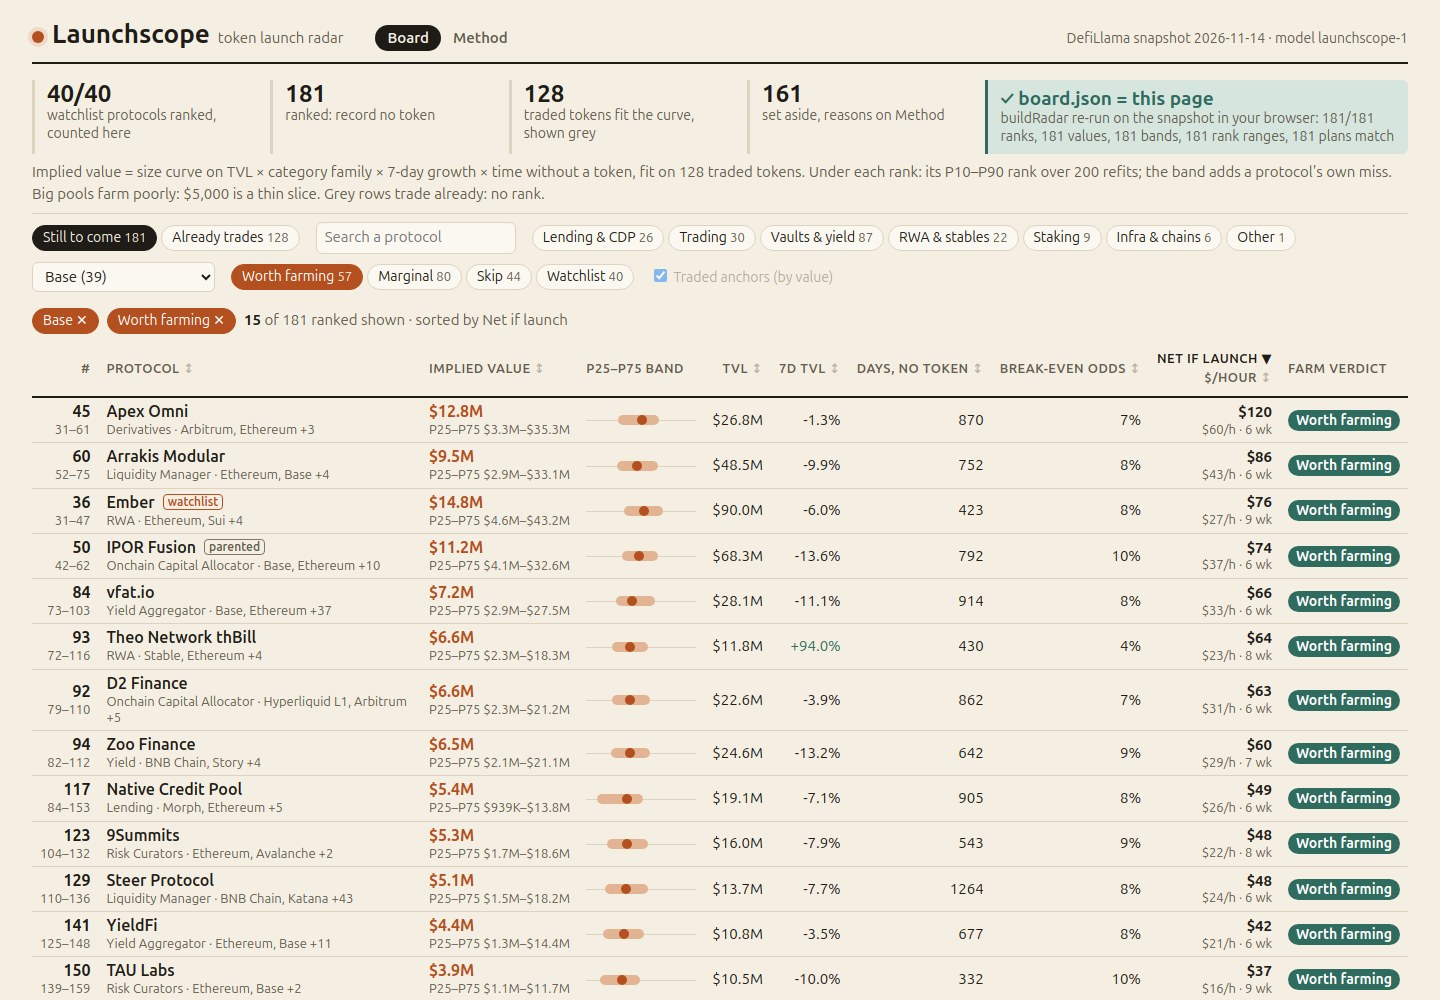
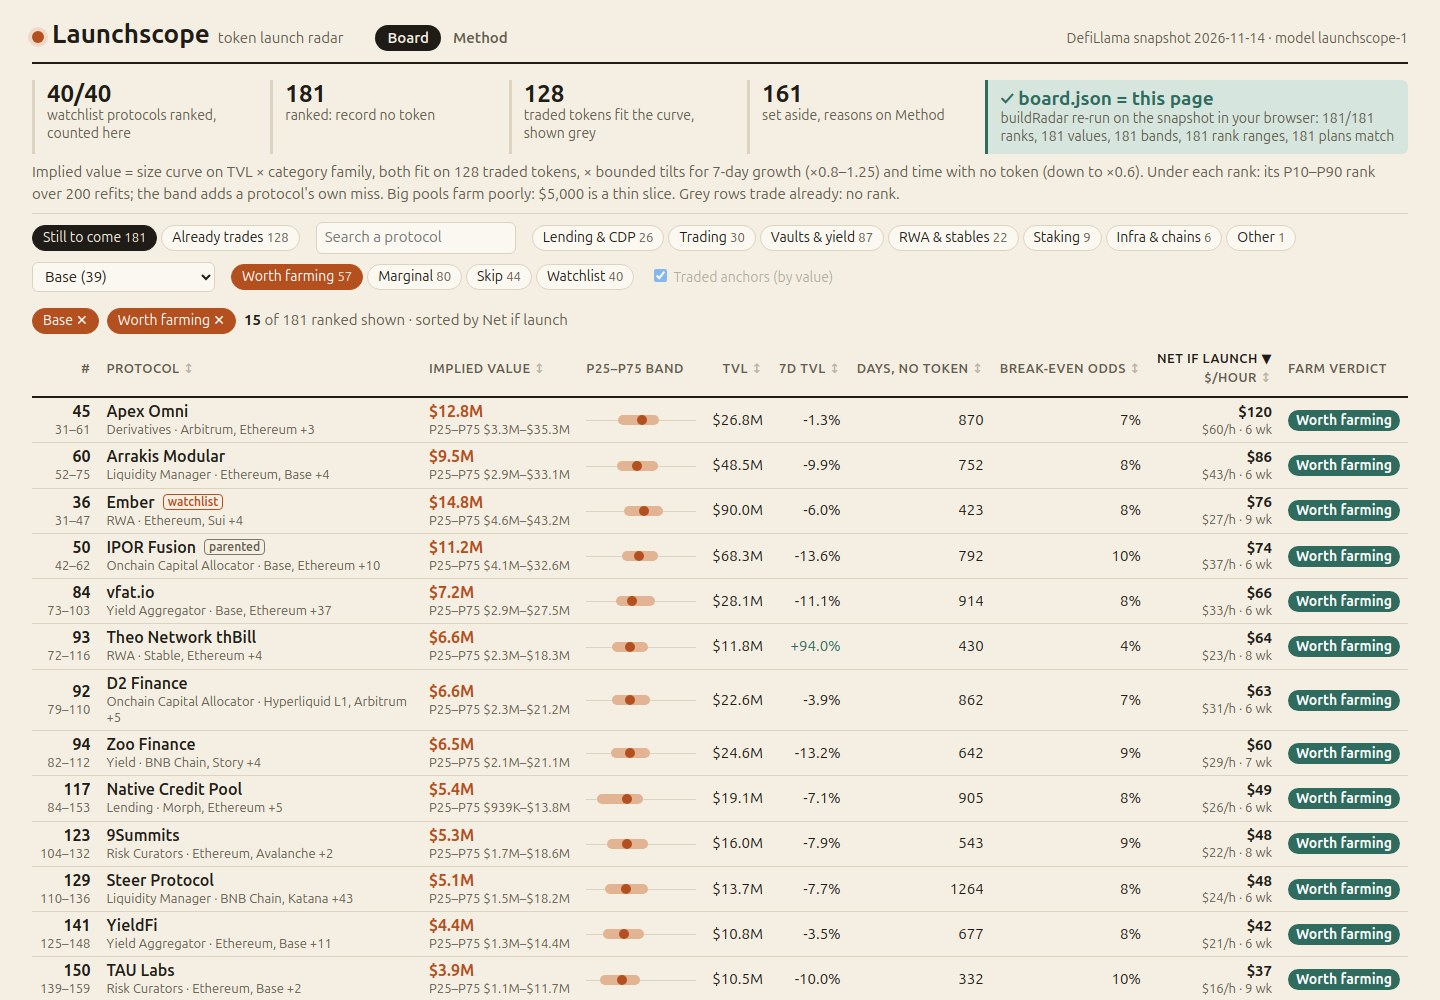
Board explainer: only the size curve and family are fitted; tilts are bounded

Changed region(s): [[0.0312, 0.155, 0.9688, 0.217]]

diff --git a/dashboard/radar.js b/dashboard/radar.js
@@ -136,7 +136,7 @@
     const chip = (key, val, label, n) => `<button class="chip ${st[key] === val ? 'on' : ''}" data-k="${key}" data-v="${esc(val)}">${esc(label)} <small>${n}</small></button>`;
     const chains = Object.keys(chainCount).sort((a, b) => chainCount[b] - chainCount[a] || (a < b ? -1 : 1)).slice(0, 30);
     $('#view').innerHTML = `${kpis()}
-      <p class="explain">Implied value = size curve on TVL × category family × 7-day growth × time without a token, fit on ${M.traded.length} traded tokens. Under each rank: its P10–P90 rank over 200 refits; the band adds a protocol's own miss. Big pools farm poorly: $5,000 is a thin slice. Grey rows trade already: no rank.</p>
+      <p class="explain">Implied value = size curve on TVL × category family, both fit on ${M.traded.length} traded tokens, × bounded tilts for 7-day growth (×${L.MODEL.growthMin}–${L.MODEL.growthMax}) and time with no token (down to ×${1 - L.MODEL.seasonDepth}). Under each rank: its P10–P90 rank over 200 refits; the band adds a protocol's own miss. Big pools farm poorly: $5,000 is a thin slice. Grey rows trade already: no rank.</p>
       <div class="toolbar">
         <div class="group seg">${chip('tab', '', 'Still to come', M.rows.length)}${chip('tab', 'traded', 'Already trades', M.traded.length)}</div>
         <input id="q" type="search" placeholder="Search a protocol" value="${esc(st.q)}" aria-label="Search">
